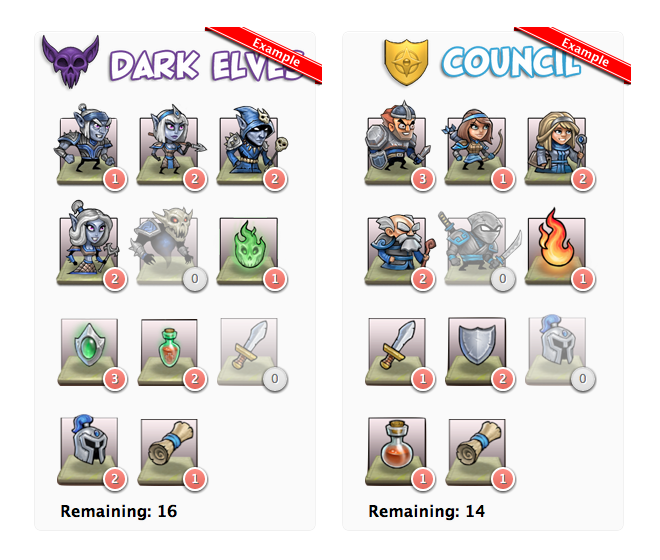
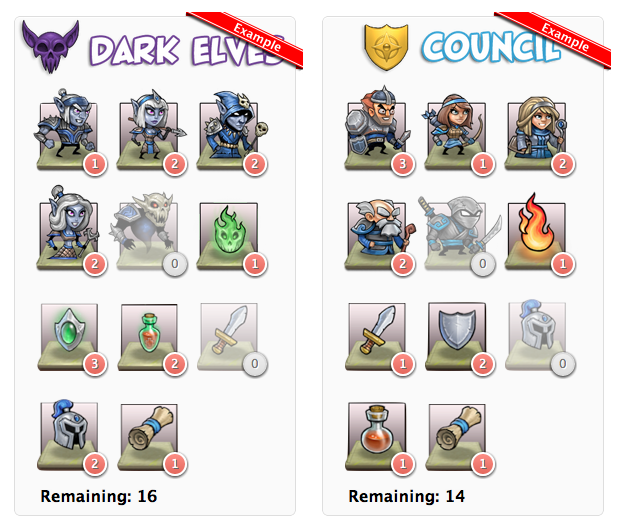
Fixed game example border

diff --git a/public/stylesheets/site.css b/public/stylesheets/site.css
@@ -528,8 +528,8 @@ img.enemies-example {
   margin-left: -10px;
 }
 img.game-example {
-  margin-left: -25px;
-  margin-top: -25px;
+  margin-left: -5px;
+  margin-top: -5px;
 }
 #player {
   clear: left;
